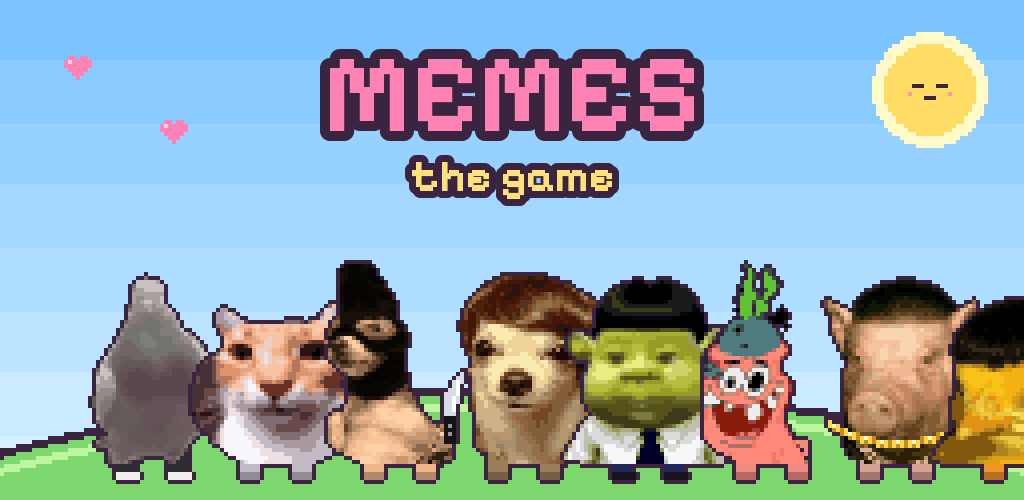
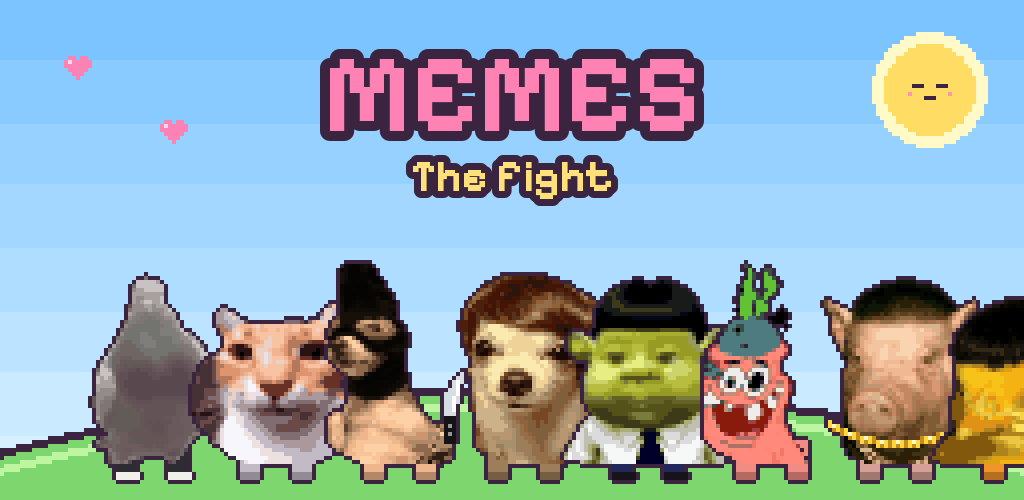
Rename to Memes: The fight (title, Dart/Android/iOS package ids)
- App title, home logo, web/manifest, store texts and feature graphic.
- Dart package memes_the_fight, Android com.dellarosamarco.memes_the_fight,
  iOS com.dellarosamarco.memesTheFight.
- Pixelify Sans: 'liga' disabled so 'fi' doesn't merge into an
  unreadable glyph.

Claude-Session: https://claude.ai/code/session_01E1QhPghTw73vfcVd6FtikP

Changed region(s): [[0.375, 0.3, 0.625, 0.42]]

diff --git a/web/index.html b/web/index.html
@@ -18,20 +18,20 @@
 
   <meta charset="UTF-8">
   <meta content="IE=Edge" http-equiv="X-UA-Compatible">
-  <meta name="description" content="Memes: the game — platform 2D in pixel art con i meme più iconici. 24 personaggi, 500 livelli, boss, cappelli e classifica.">
+  <meta name="description" content="Memes: The fight — picchiaduro alla Smash in pixel art con i meme più iconici: 24 lottatori, 10 arene, lotta libera e Arcade.">
   <meta name="viewport" content="width=device-width, initial-scale=1, maximum-scale=1, user-scalable=no, viewport-fit=cover">
   <meta name="theme-color" content="#FF82B4">
 
   <!-- iOS meta tags & icons -->
   <meta name="mobile-web-app-capable" content="yes">
   <meta name="apple-mobile-web-app-status-bar-style" content="black">
-  <meta name="apple-mobile-web-app-title" content="Memes: the game">
+  <meta name="apple-mobile-web-app-title" content="Memes: The fight">
   <link rel="apple-touch-icon" href="icons/Icon-192.png">
 
   <!-- Favicon -->
   <link rel="icon" type="image/png" href="favicon.png"/>
 
-  <title>Memes: the game</title>
+  <title>Memes: The fight</title>
   <link rel="manifest" href="manifest.json">
   <style>
     /* Loading screen until Flutter draws its first frame. */
@@ -59,7 +59,7 @@
 </head>
 <body>
   <div id="splash">
-    <img src="splash.png" alt="Memes: the game">
+    <img src="splash.png" alt="Memes: The fight">
     <div class="bar"><div></div></div>
   </div>
   <script>

diff --git a/test/fight_test.dart b/test/fight_test.dart
@@ -3,12 +3,12 @@ import 'dart:math';
 import 'package:flame/game.dart';
 import 'package:flutter/material.dart';
 import 'package:flutter_test/flutter_test.dart';
-import 'package:memes_the_game/game/cpu.dart';
-import 'package:memes_the_game/game/fighter/fighter.dart';
-import 'package:memes_the_game/game/fighter/moves.dart';
-import 'package:memes_the_game/game/memes_game.dart';
-import 'package:memes_the_game/game/stages.dart';
-import 'package:memes_the_game/models/meme_character.dart';
+import 'package:memes_the_fight/game/cpu.dart';
+import 'package:memes_the_fight/game/fighter/fighter.dart';
+import 'package:memes_the_fight/game/fighter/moves.dart';
+import 'package:memes_the_fight/game/memes_game.dart';
+import 'package:memes_the_fight/game/stages.dart';
+import 'package:memes_the_fight/models/meme_character.dart';
 
 /// Boots the real game and lets two CPUs fight, to catch runtime errors in
 /// fighters, specials and projectiles and to check matches actually end.

diff --git a/lib/screens/about_screen.dart b/lib/screens/about_screen.dart
@@ -125,7 +125,7 @@ class AboutScreen extends StatelessWidget {
                         crossAxisAlignment: CrossAxisAlignment.start,
                         children: [
                           _section(
-                            'Memes: the game  v$kAppVersion',
+                            'Memes: The fight  v$kAppVersion',
                             'Un picchiaduro in pixel art alla Smash con i '
                                 'meme più iconici di internet: 24 lottatori, '
                                 '10 arene, lotta libera e Arcade contro la CPU.',

diff --git a/test/store_test.dart b/test/store_test.dart
@@ -1,7 +1,7 @@
 import 'package:flutter_test/flutter_test.dart';
-import 'package:memes_the_game/models/hats.dart';
-import 'package:memes_the_game/services/achievements.dart';
-import 'package:memes_the_game/services/local_store.dart';
+import 'package:memes_the_fight/models/hats.dart';
+import 'package:memes_the_fight/services/achievements.dart';
+import 'package:memes_the_fight/services/local_store.dart';
 import 'package:shared_preferences/shared_preferences.dart';
 
 void main() {

diff --git a/test/game_logic_test.dart b/test/game_logic_test.dart
@@ -1,7 +1,7 @@
 import 'package:flutter_test/flutter_test.dart';
-import 'package:memes_the_game/game/arcade.dart';
-import 'package:memes_the_game/game/memes_game.dart';
-import 'package:memes_the_game/models/meme_character.dart';
+import 'package:memes_the_fight/game/arcade.dart';
+import 'package:memes_the_fight/game/memes_game.dart';
+import 'package:memes_the_fight/models/meme_character.dart';
 
 void main() {
   test('every character has a unique id, passive and special', () {

diff --git a/lib/screens/home_screen.dart b/lib/screens/home_screen.dart
@@ -172,7 +172,7 @@ class _HomeScreenState extends State<HomeScreen>
                     mainAxisSize: MainAxisSize.min,
                     children: [
                       BouncyText('MEMES', size: 64, color: Color(0xFFFF82B4)),
-                      PixelText('the game', size: 26, color: Color(0xFFFFE07A)),
+                      PixelText('The fight', size: 26, color: Color(0xFFFFE07A)),
                     ],
                   ),
                 ),

diff --git a/lib/main.dart b/lib/main.dart
@@ -58,7 +58,7 @@ class _MemesAppState extends State<MemesApp> with WidgetsBindingObserver {
   @override
   Widget build(BuildContext context) {
     return MaterialApp(
-      title: 'Memes: the game',
+      title: 'Memes: The fight',
       debugShowCheckedModeBanner: false,
       theme: ThemeData(
         fontFamily: 'Pixelify',

diff --git a/lib/game/memes_game.dart b/lib/game/memes_game.dart
@@ -63,7 +63,7 @@ class MatchConfig {
   );
 }
 
-/// "Memes: the game" — a Smash-style brawl between memes.
+/// "Memes: The fight" — a Smash-style brawl between memes.
 class MemesGame extends FlameGame with KeyboardEvents {
   MemesGame({required this.config})
     : stage = Stage.all[config.stage],

diff --git a/test/name_filter_test.dart b/test/name_filter_test.dart
@@ -1,5 +1,5 @@
 import 'package:flutter_test/flutter_test.dart';
-import 'package:memes_the_game/services/name_filter.dart';
+import 'package:memes_the_fight/services/name_filter.dart';
 
 void main() {
   test('clean names pass', () {

diff --git a/android/app/src/main/kotlin/com/dellarosamarco/memes_the_fight/MainActivity.kt b/android/app/src/main/kotlin/com/dellarosamarco/memes_the_fight/MainActivity.kt
@@ -1,4 +1,4 @@
-package com.dellarosamarco.memes_the_game
+package com.dellarosamarco.memes_the_fight
 
 import io.flutter.embedding.android.FlutterActivity
 

diff --git a/tool/pixel_details.py b/tool/pixel_details.py
@@ -771,8 +771,8 @@ def power_block() -> Image.Image:
 
 
 def powerups() -> Image.Image:
-    """16x16 items: sunglasses, stonks, pizza, coffee."""
-    sheet = Image.new('RGBA', (16 * 4, 16))
+    """16x16 fight items: sunglasses, stonks, pizza, coffee, bomb."""
+    sheet = Image.new('RGBA', (16 * 5, 16))
     # Deal-with-it pixel sunglasses.
     im = Image.new('RGBA', (16, 16))
     d = ImageDraw.Draw(im)
@@ -805,6 +805,16 @@ def powerups() -> Image.Image:
     d.point([(5, 3), (6, 2), (8, 4), (9, 3)], fill=(220, 220, 230, 255))
     d.point([(6, 11), (8, 11)], fill=PLUM)
     sheet.alpha_composite(outline(im), (48, 0))
+    # Cartoon bomb with a lit fuse.
+    im = Image.new('RGBA', (16, 16))
+    d = ImageDraw.Draw(im)
+    d.ellipse([2, 4, 13, 15], fill=(50, 44, 70, 255))
+    d.ellipse([4, 6, 7, 9], fill=(120, 110, 150, 255))
+    d.rectangle([7, 2, 9, 4], fill=(90, 80, 110, 255))
+    d.line([(9, 2), (11, 0)], fill=(200, 160, 110, 255))
+    d.point([(12, 0), (11, 1)], fill=(255, 210, 80, 255))
+    d.point([(13, 1)], fill=(255, 120, 60, 255))
+    sheet.alpha_composite(outline(im), (64, 0))
     return sheet
 
 

diff --git a/tool/generate_store_art.py b/tool/generate_store_art.py
@@ -45,7 +45,7 @@ def feature_graphic() -> Image.Image:
     big = img.resize((w * 4, h * 4), Image.NEAREST).convert('RGBA')
     d = ImageDraw.Draw(big)
     _text(d, (512, 26), 'MEMES', 112, (255, 130, 180), stroke=10)
-    _text(d, (512, 150), 'the game', 44, (255, 224, 122), stroke=7)
+    _text(d, (512, 150), 'The fight', 44, (255, 224, 122), stroke=7)
     return big.convert('RGB')
 
 
